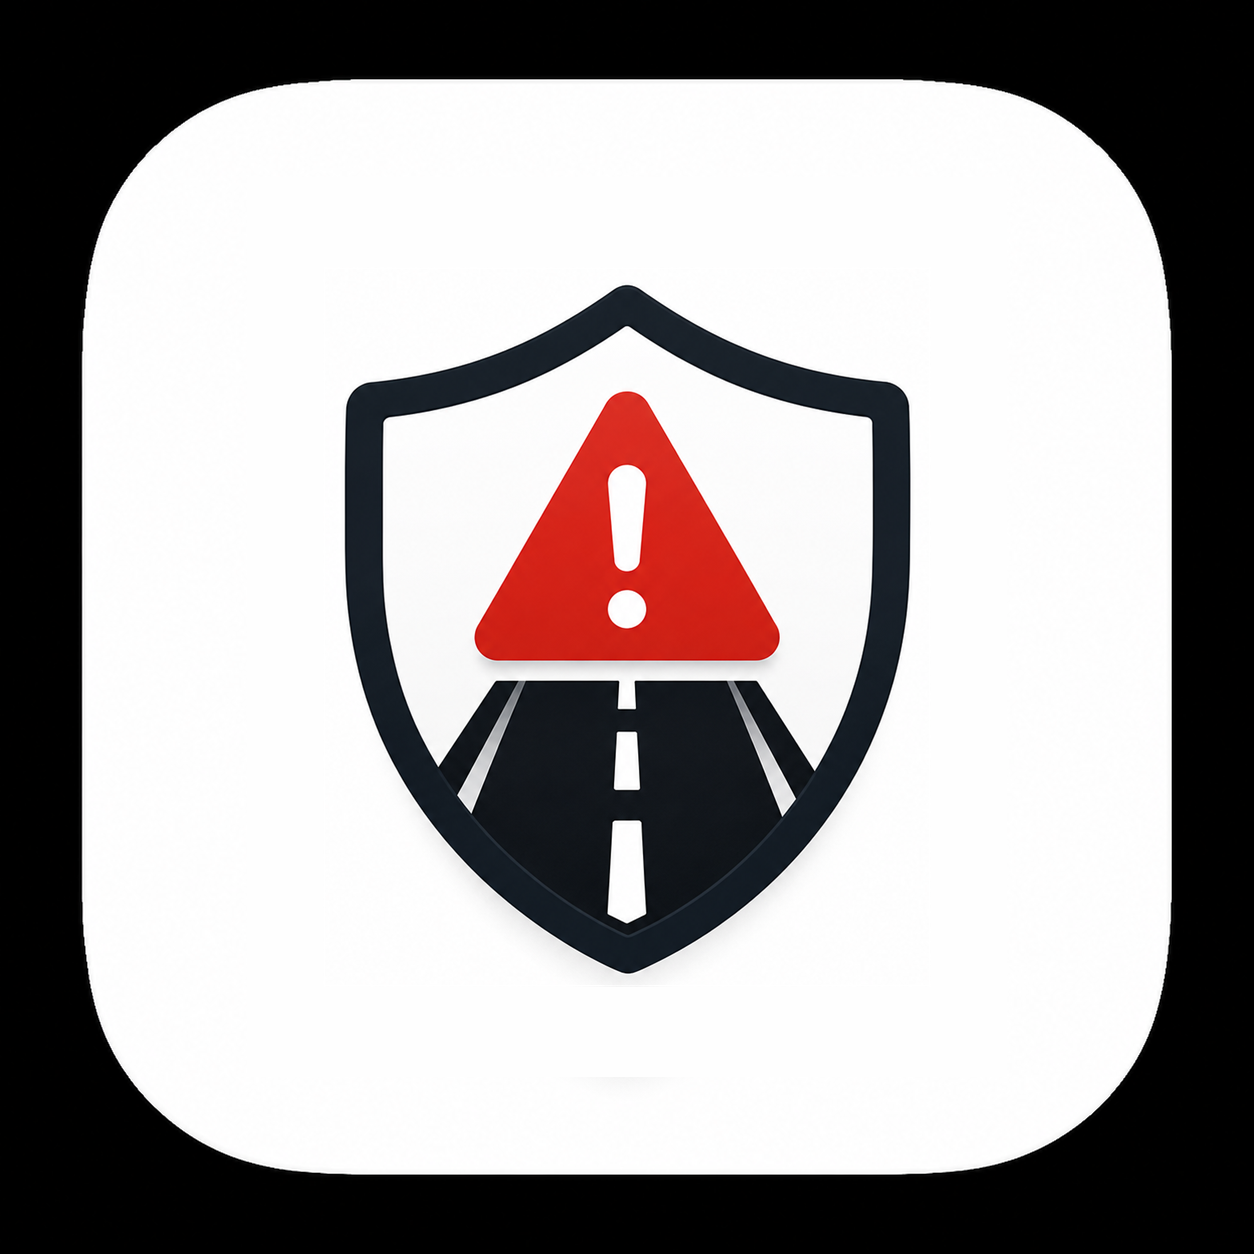
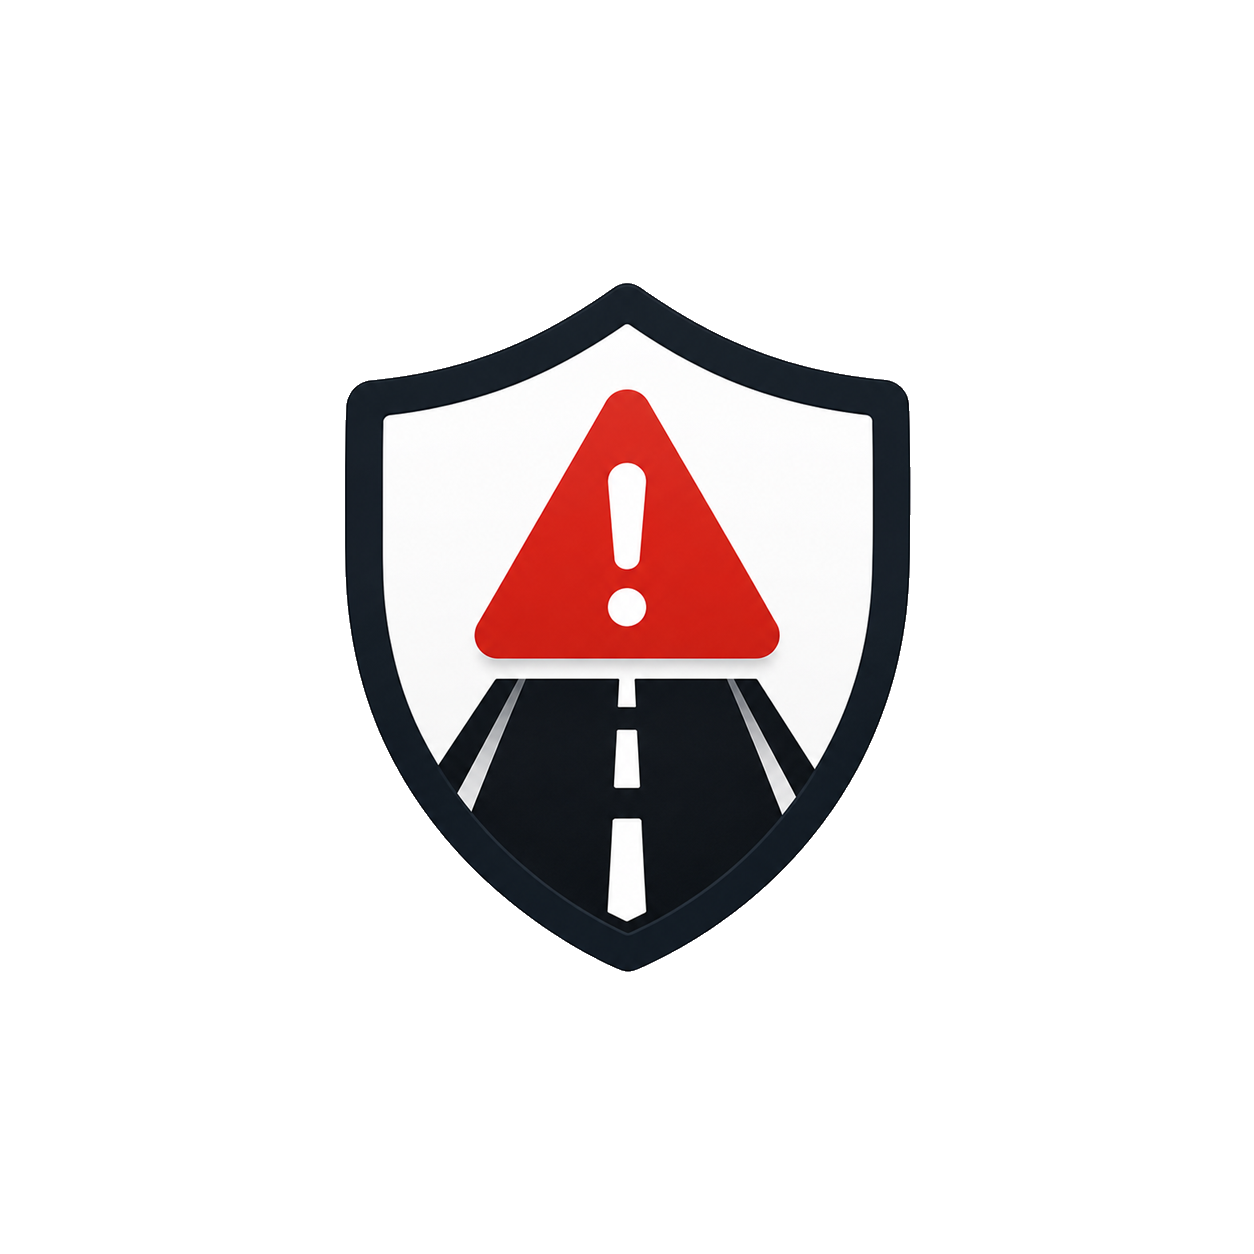
feat: implement a about screen

diff --git a/src/features/profile/components/AboutScreen.tsx b/src/features/profile/components/AboutScreen.tsx
@@ -96,15 +96,15 @@ export default function AboutScreen({ onClose }: AboutScreenProps) {
             >
                 <View className="items-center rounded-2xl bg-white px-6 py-7">
                     <Image
-                        source={require("../../../../assets/images/splash-new-icon.png")}
+                        source={require("../../../../assets/images/app-icon.png")}
                         accessibilityLabel="Símbolo do Farol"
-                        className="h-[76px] w-[76px] rounded-2xl"
+                        className=" w-36 h-23 rounded-2xl"
                     />
                     <Text className="mt-4 text-[26px] font-bold" style={{ color: TEXT_COLOR }}>
                         Farol
                     </Text>
                     <Text
-                        className="mt-2 text-center text-[15px] leading-[22px]"
+                        className="mt-2 text-center text-[15px] leading-5.5"
                         style={{ color: MUTED_COLOR }}
                     >
                         Informação para seguir com mais atenção e consciência no trânsito.
